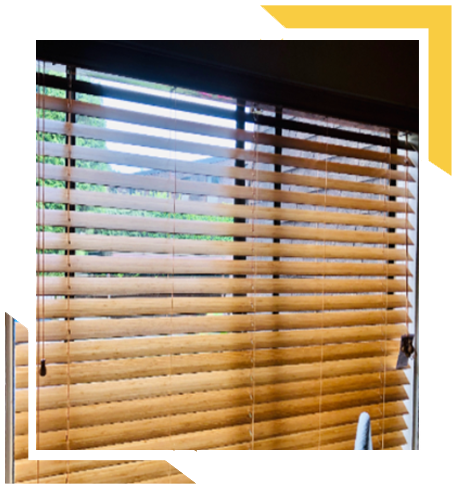
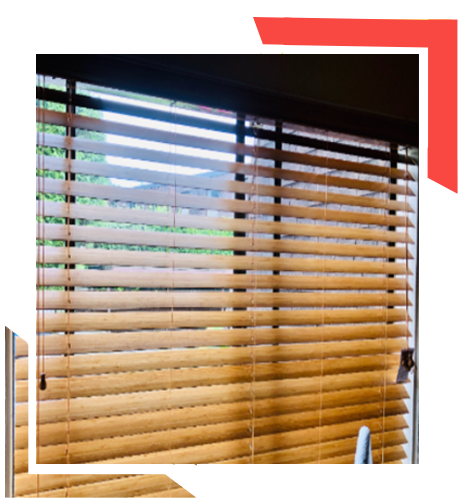
Z-index change

diff --git a/src/themes/_header.scss b/src/themes/_header.scss
@@ -30,7 +30,7 @@
 	position: absolute;
 	left: 0px;
 	top: 0px;
-	z-index: 10;
+	z-index: 10000;
 	width: 100%;
 	padding-top: 30px;
 	padding-bottom: 30px;
@@ -118,7 +118,7 @@
 	max-width: 29%;
 	text-align: center;
 	padding-left: 20px;
-	z-index: 2;
+	z-index: 16;
 	padding-right: 20px;
 	@include transition();
 	opacity: .95;
